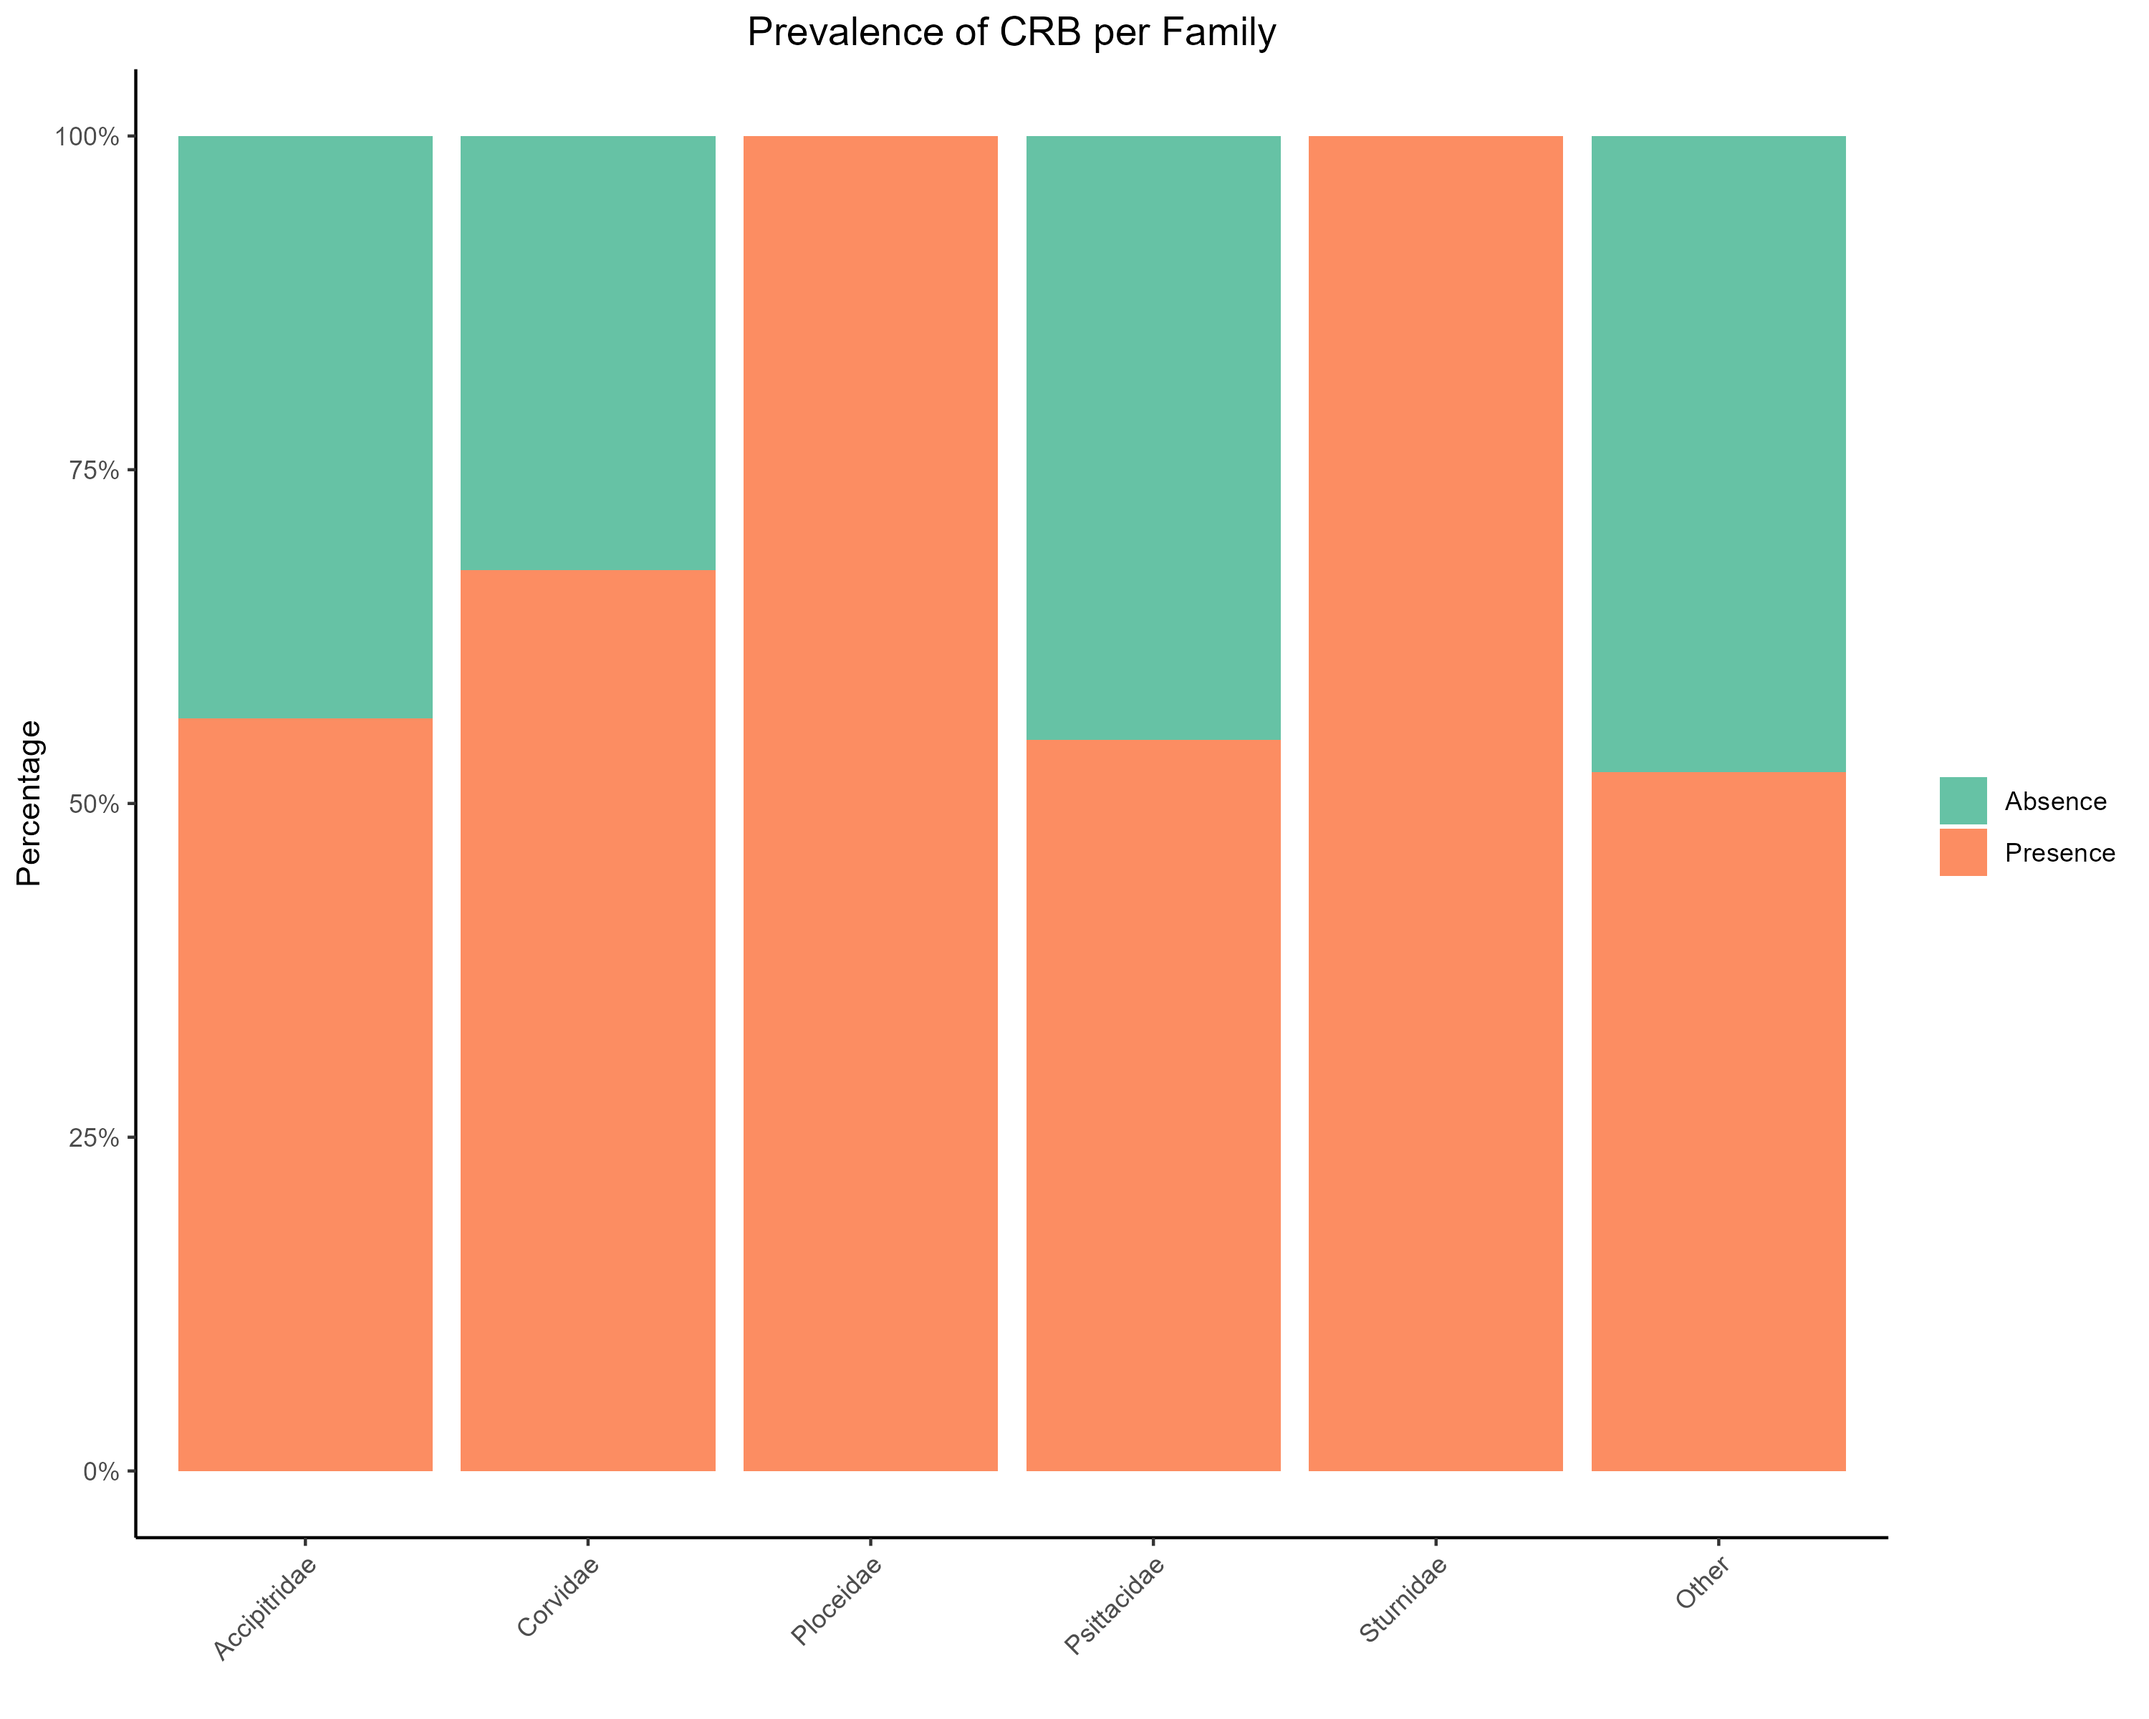
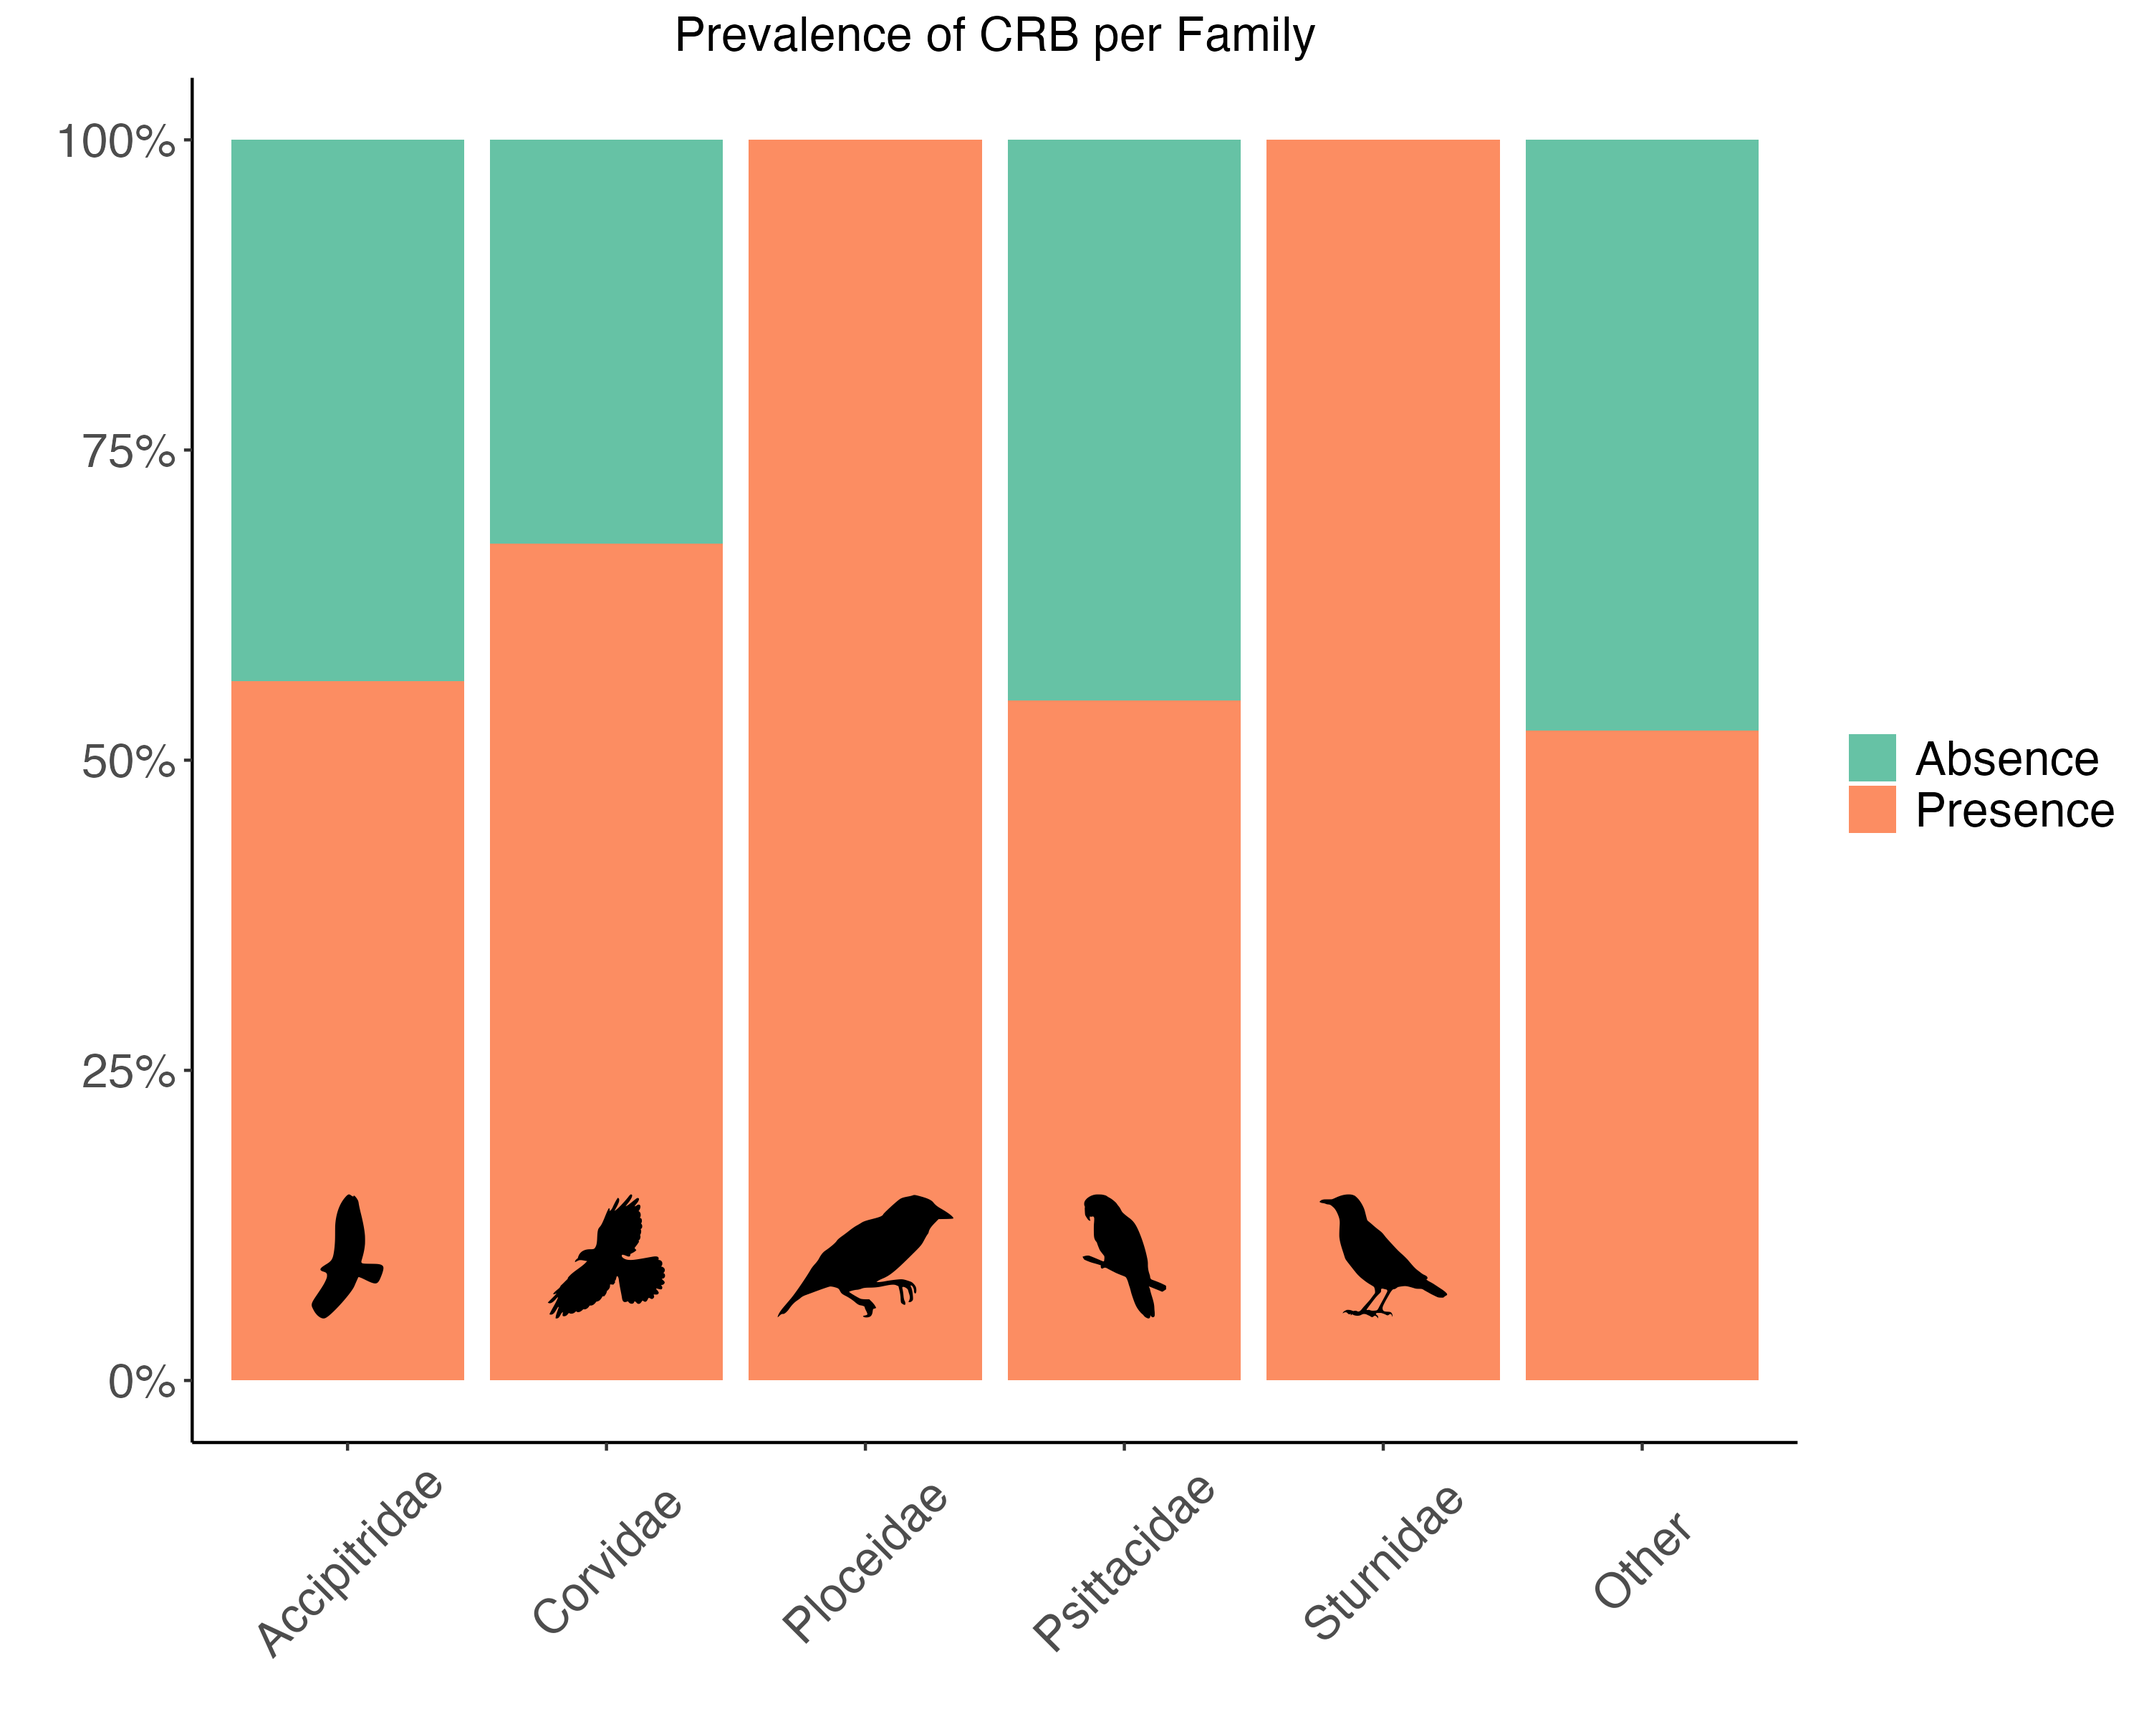
update figure 2.1

diff --git a/README.md b/README.md
@@ -1,2 +1,6 @@
 # MSc. Communal roosting behavior
 This repository will contain data for research project on communal roosting behavior of birds.
+
+
+# To Do
+Add Phylopics to Figure 2.1
